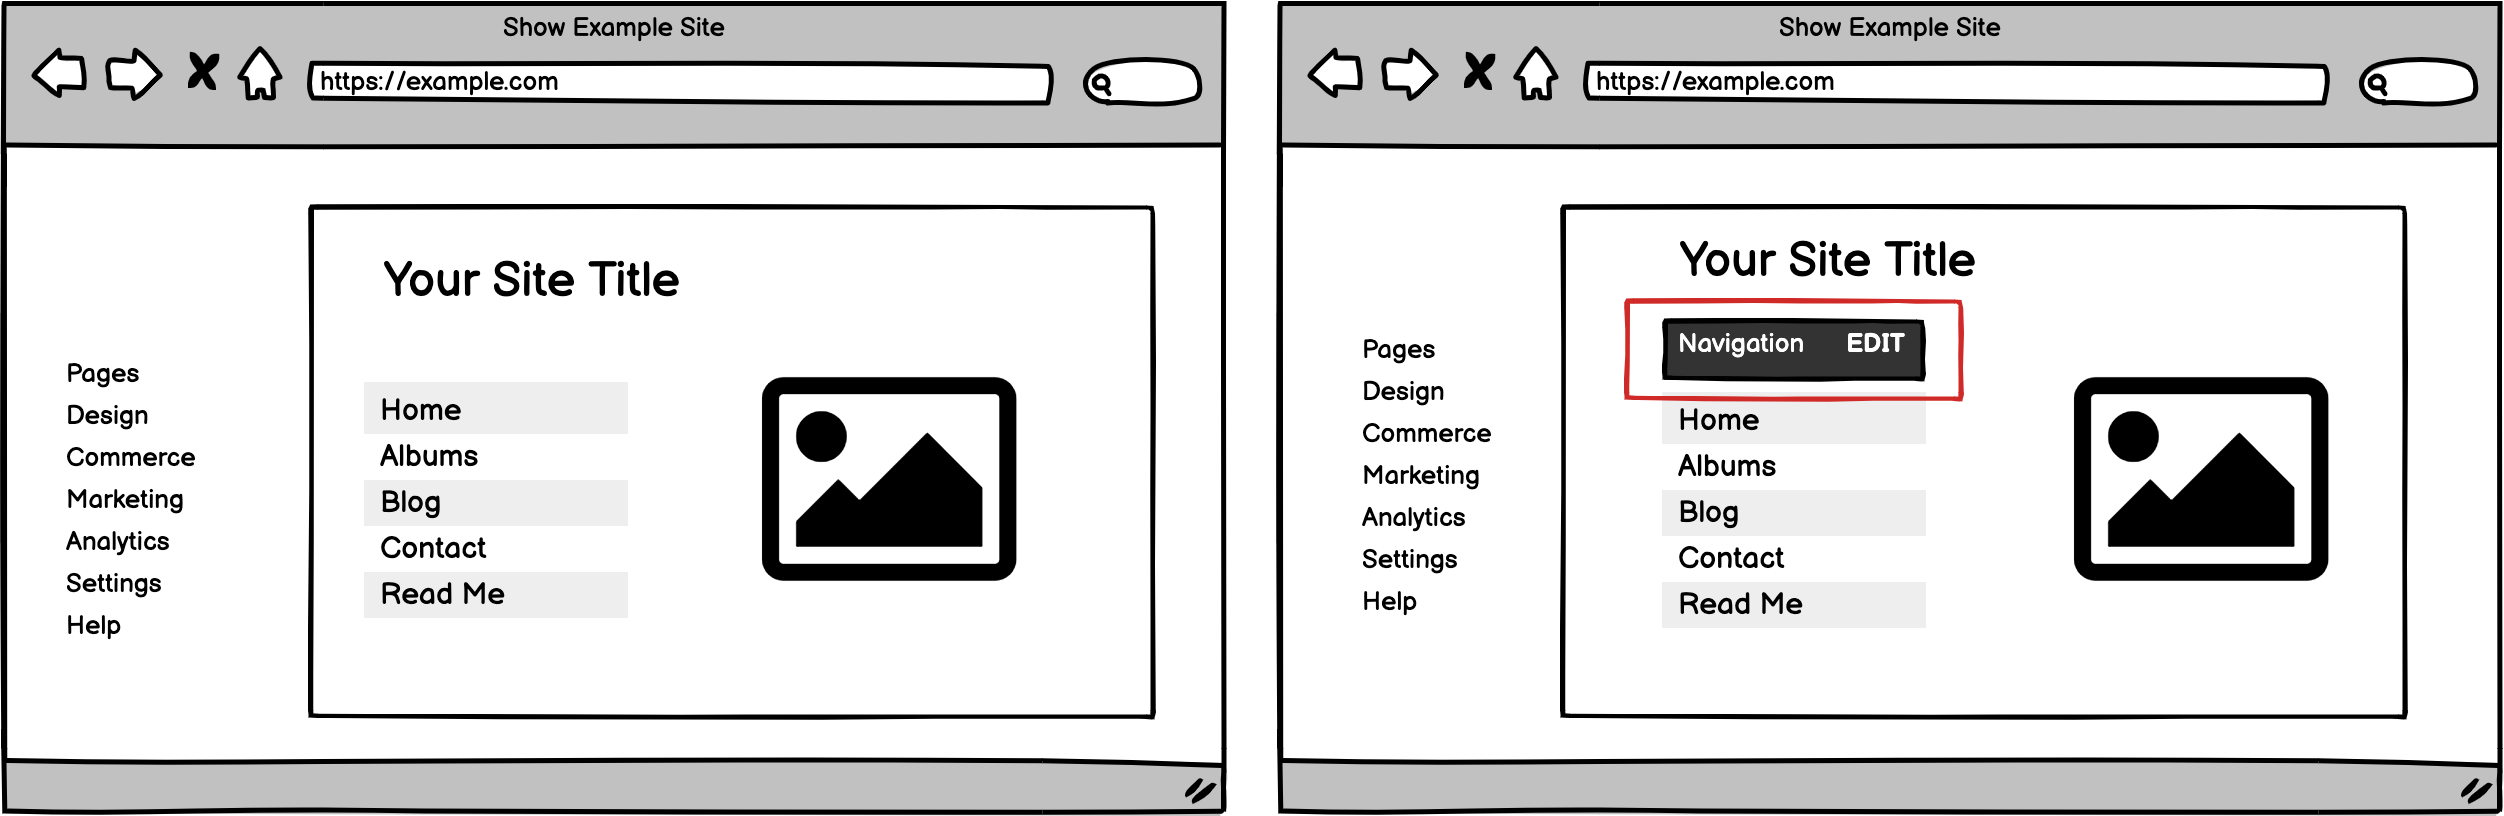
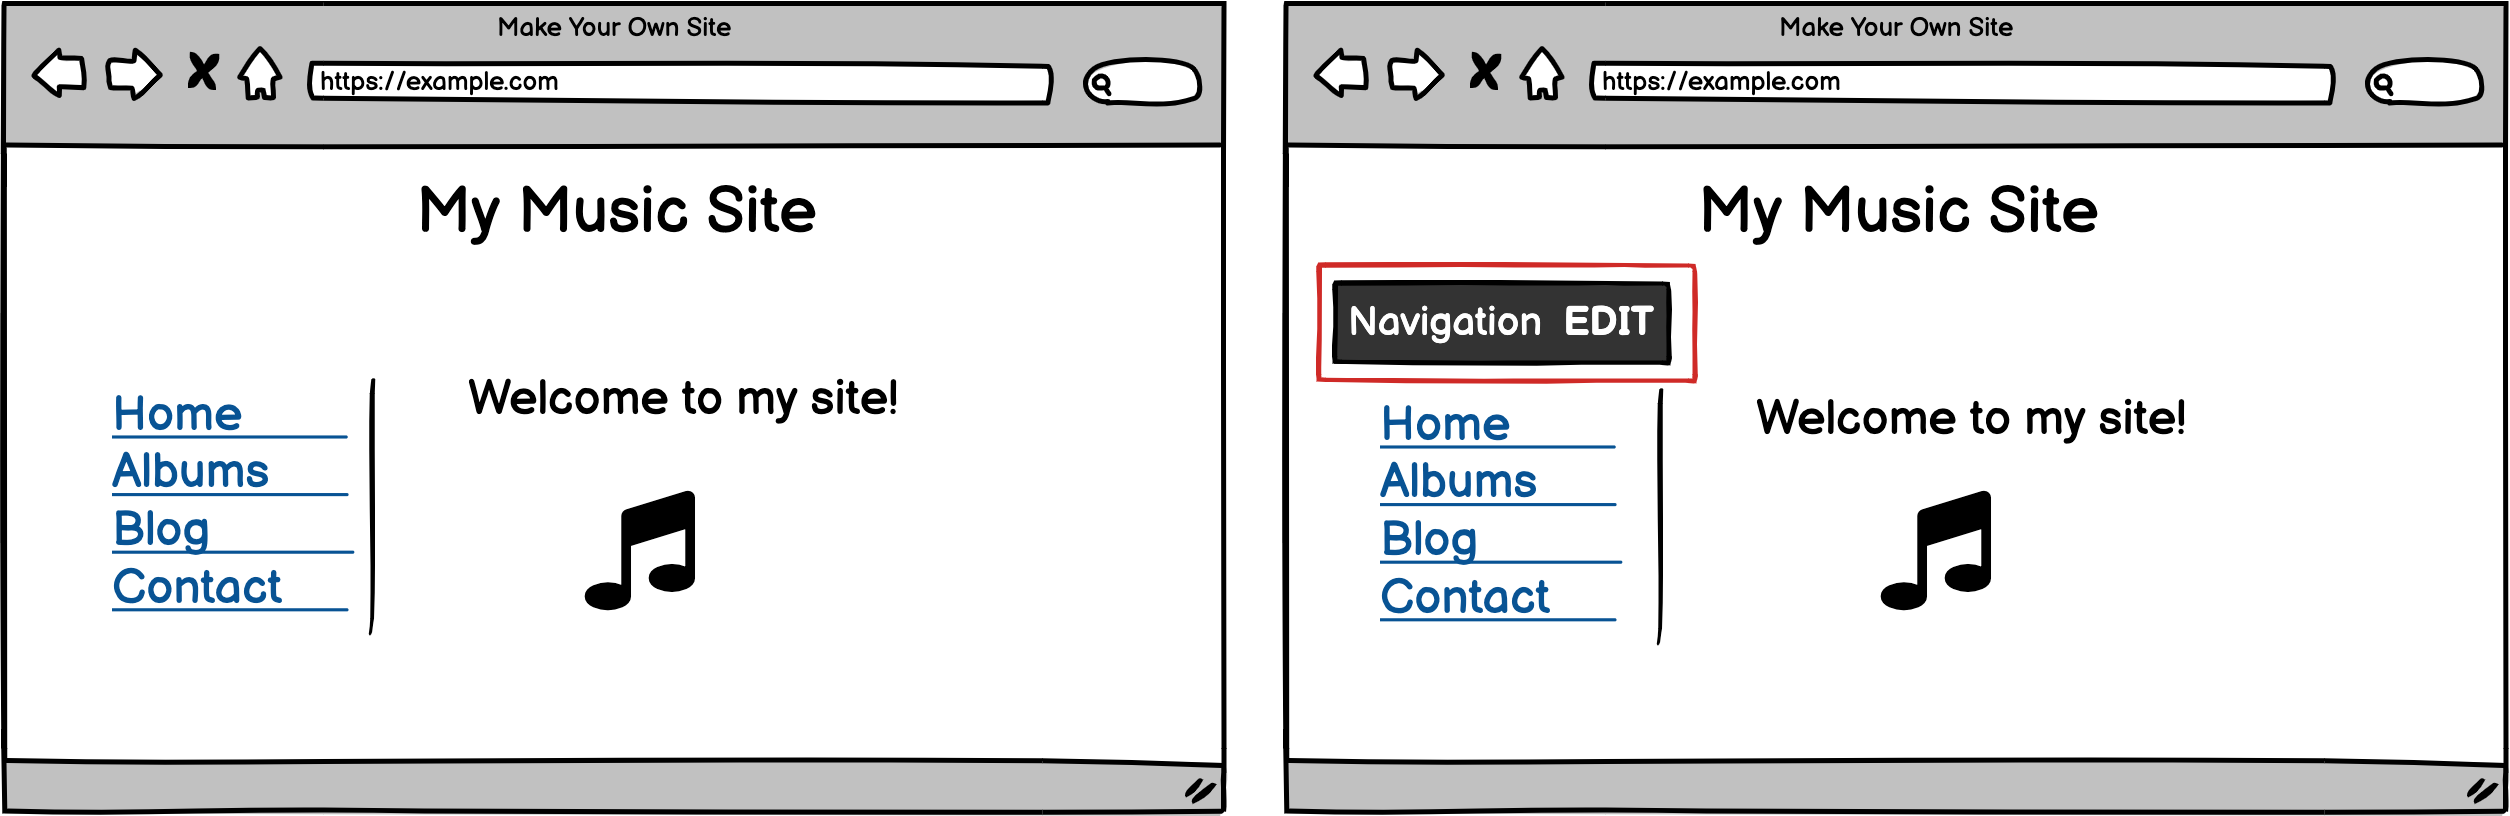
update the navigation menu edit image and figure caption

diff --git a/understanding/22/visible-controls.html b/understanding/22/visible-controls.html
@@ -138,12 +138,12 @@
          <h3>Failures for Visible Controls</h3>
          <figure id="visible-control-innerline-1">
             <img src="img/visible-control-edit-menu-hidden.png" alt="creating webpage navigation menu example with graphic user interface" />
-            <figcaption> Figure 1 Left image shows user interface of creating website navigation while right image reveals "Edit" menu of navigation items with hover.</figcaption>
+            <figcaption> Figure 1. With hover on site menu section, navigation "Edit" control become visible.</figcaption>
         </figure>  
 
         <figure id="visible-control-innerline-2">
          <img src="img/visibe-control-meeting-control-hidden.png" alt="Online meeting screen with speaker, participants, and meeting title"/>
-         <figcaption> Figure 2 Left image shows online meeting screen with muted microphone icon.  Right images reveals six different types of controls with hover on muted microphone icon. Shown controls with hover are as video, participant, screen sharing, chat, options, and ending the meeting.</figcaption>
+         <figcaption> Figure 2. Left image shows online meeting screen with muted microphone icon.  Right images reveals six different types of controls with hover on muted microphone icon. Shown controls with hover are as video, participant, screen sharing, chat, options, and ending the meeting.</figcaption>
      </figure>  
       </section>
       
